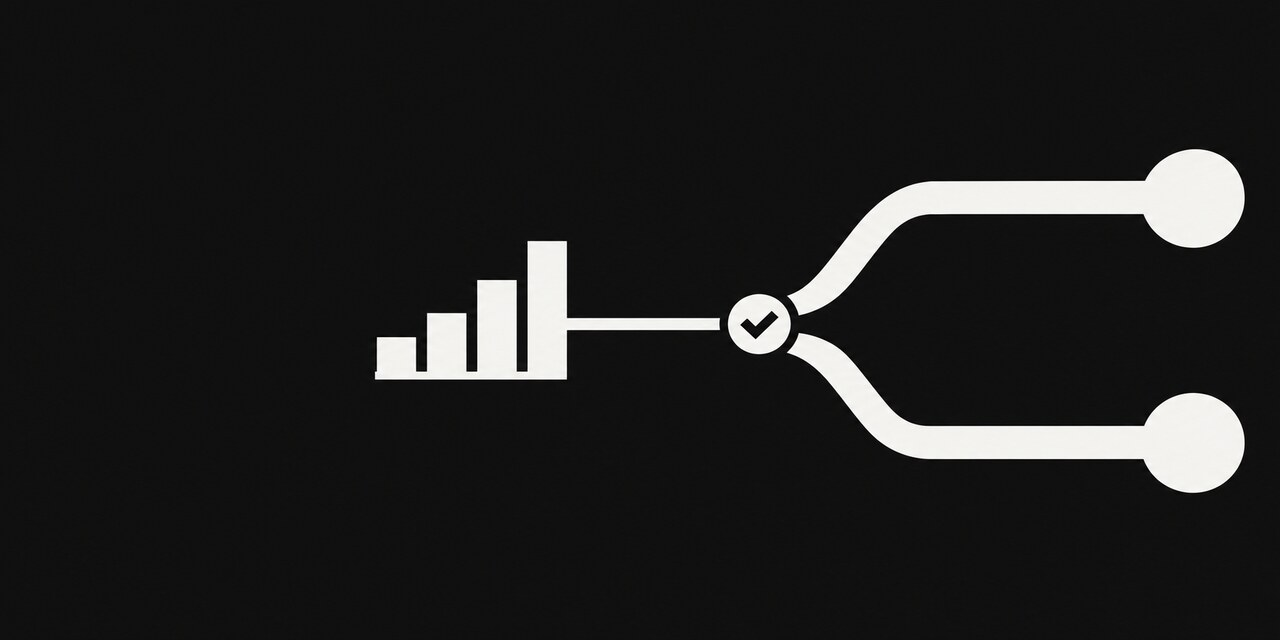
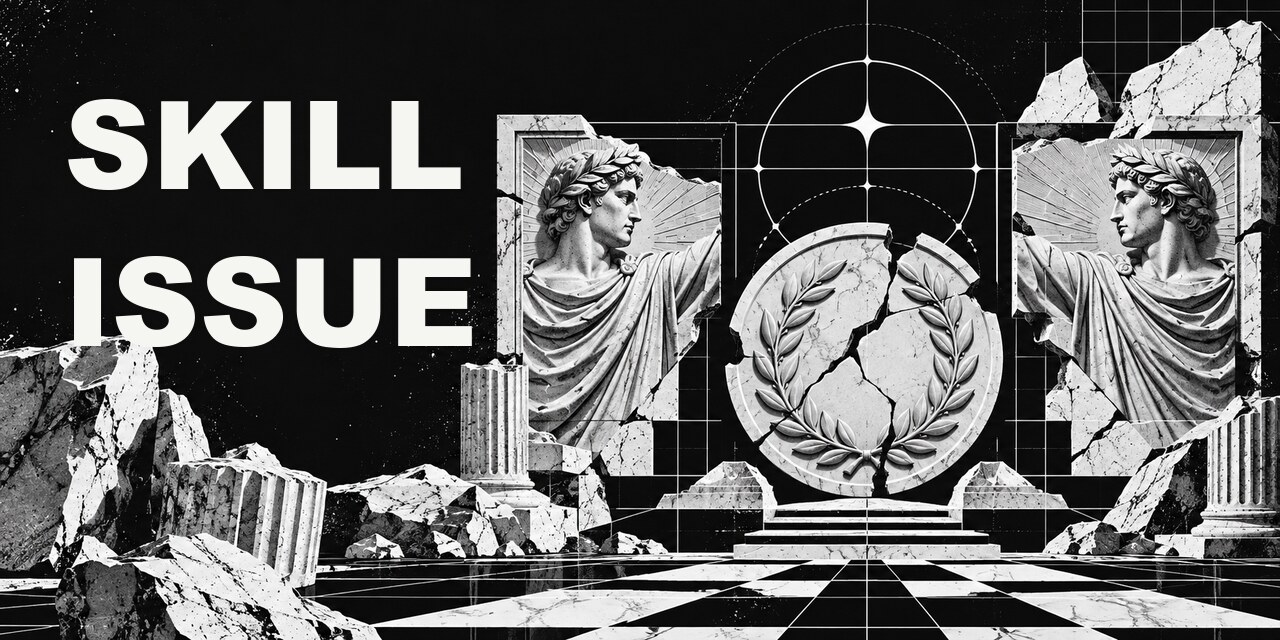
docs: add visual skill walkthroughs

diff --git a/README.md b/README.md
@@ -26,6 +26,14 @@ skill: release-notes-format (ac8e8031)
 
 That is one observed comparison, not a universal ranking. Skill Issue reports what happened in these runs and keeps the evidence visible; it does not pronounce a "best" skill from a smoke test. The repository is checked by 75 unit/integration tests, 10 CLI end-to-end tests, a real-browser e2e, and live Claude Code 2.1.294 smoke runs. The suite has been exercised on Windows 11 and Ubuntu with Node 22.18 and 24.
 
+## Before → after: one claim becomes an experiment
+
+| Before Skill Issue | After Skill Issue |
+| --- | --- |
+| “This skill feels useful.” | A task, starting workspace, exact skill revision, verifier, trace and changed files are kept together. |
+| One success becomes “the skill is better.” | The report labels the result as observed evidence and says when repetitions are insufficient for that claim. |
+| Baseline and skill runs drift because the environment changed. | Both variants start from the same bytes and an external verifier checks the stated success criterion. |
+
 ## Start with a no-cost fixture
 
 Install it as a CLI (Node.js 22.18+):
